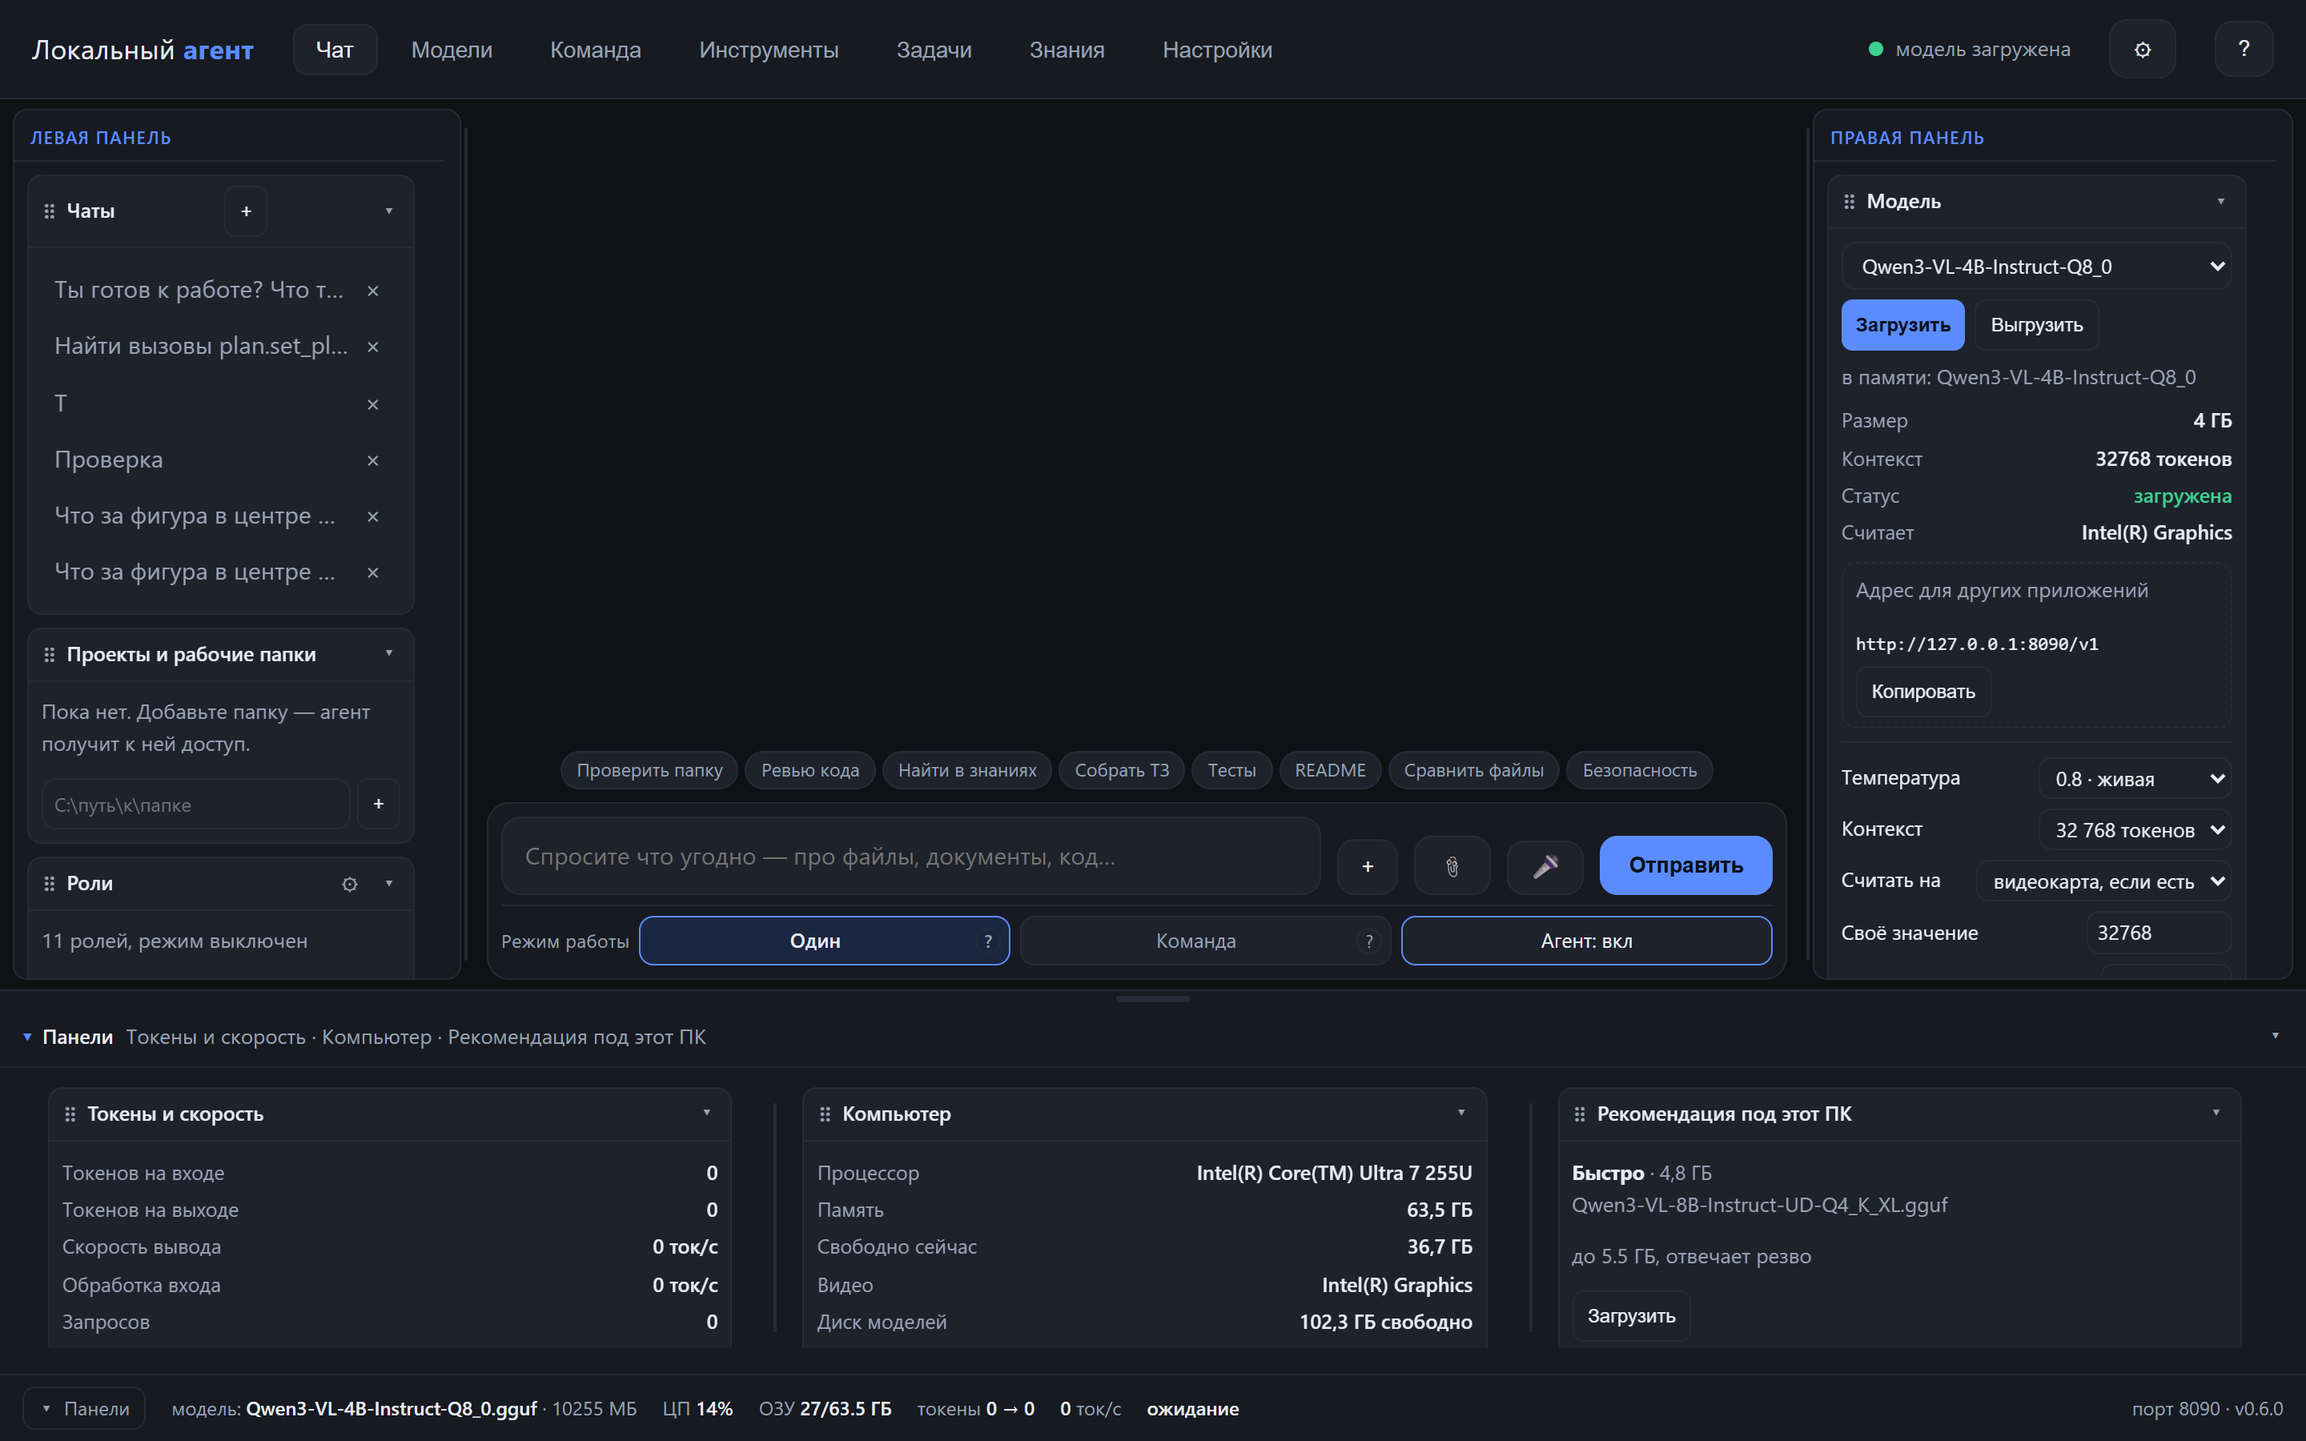
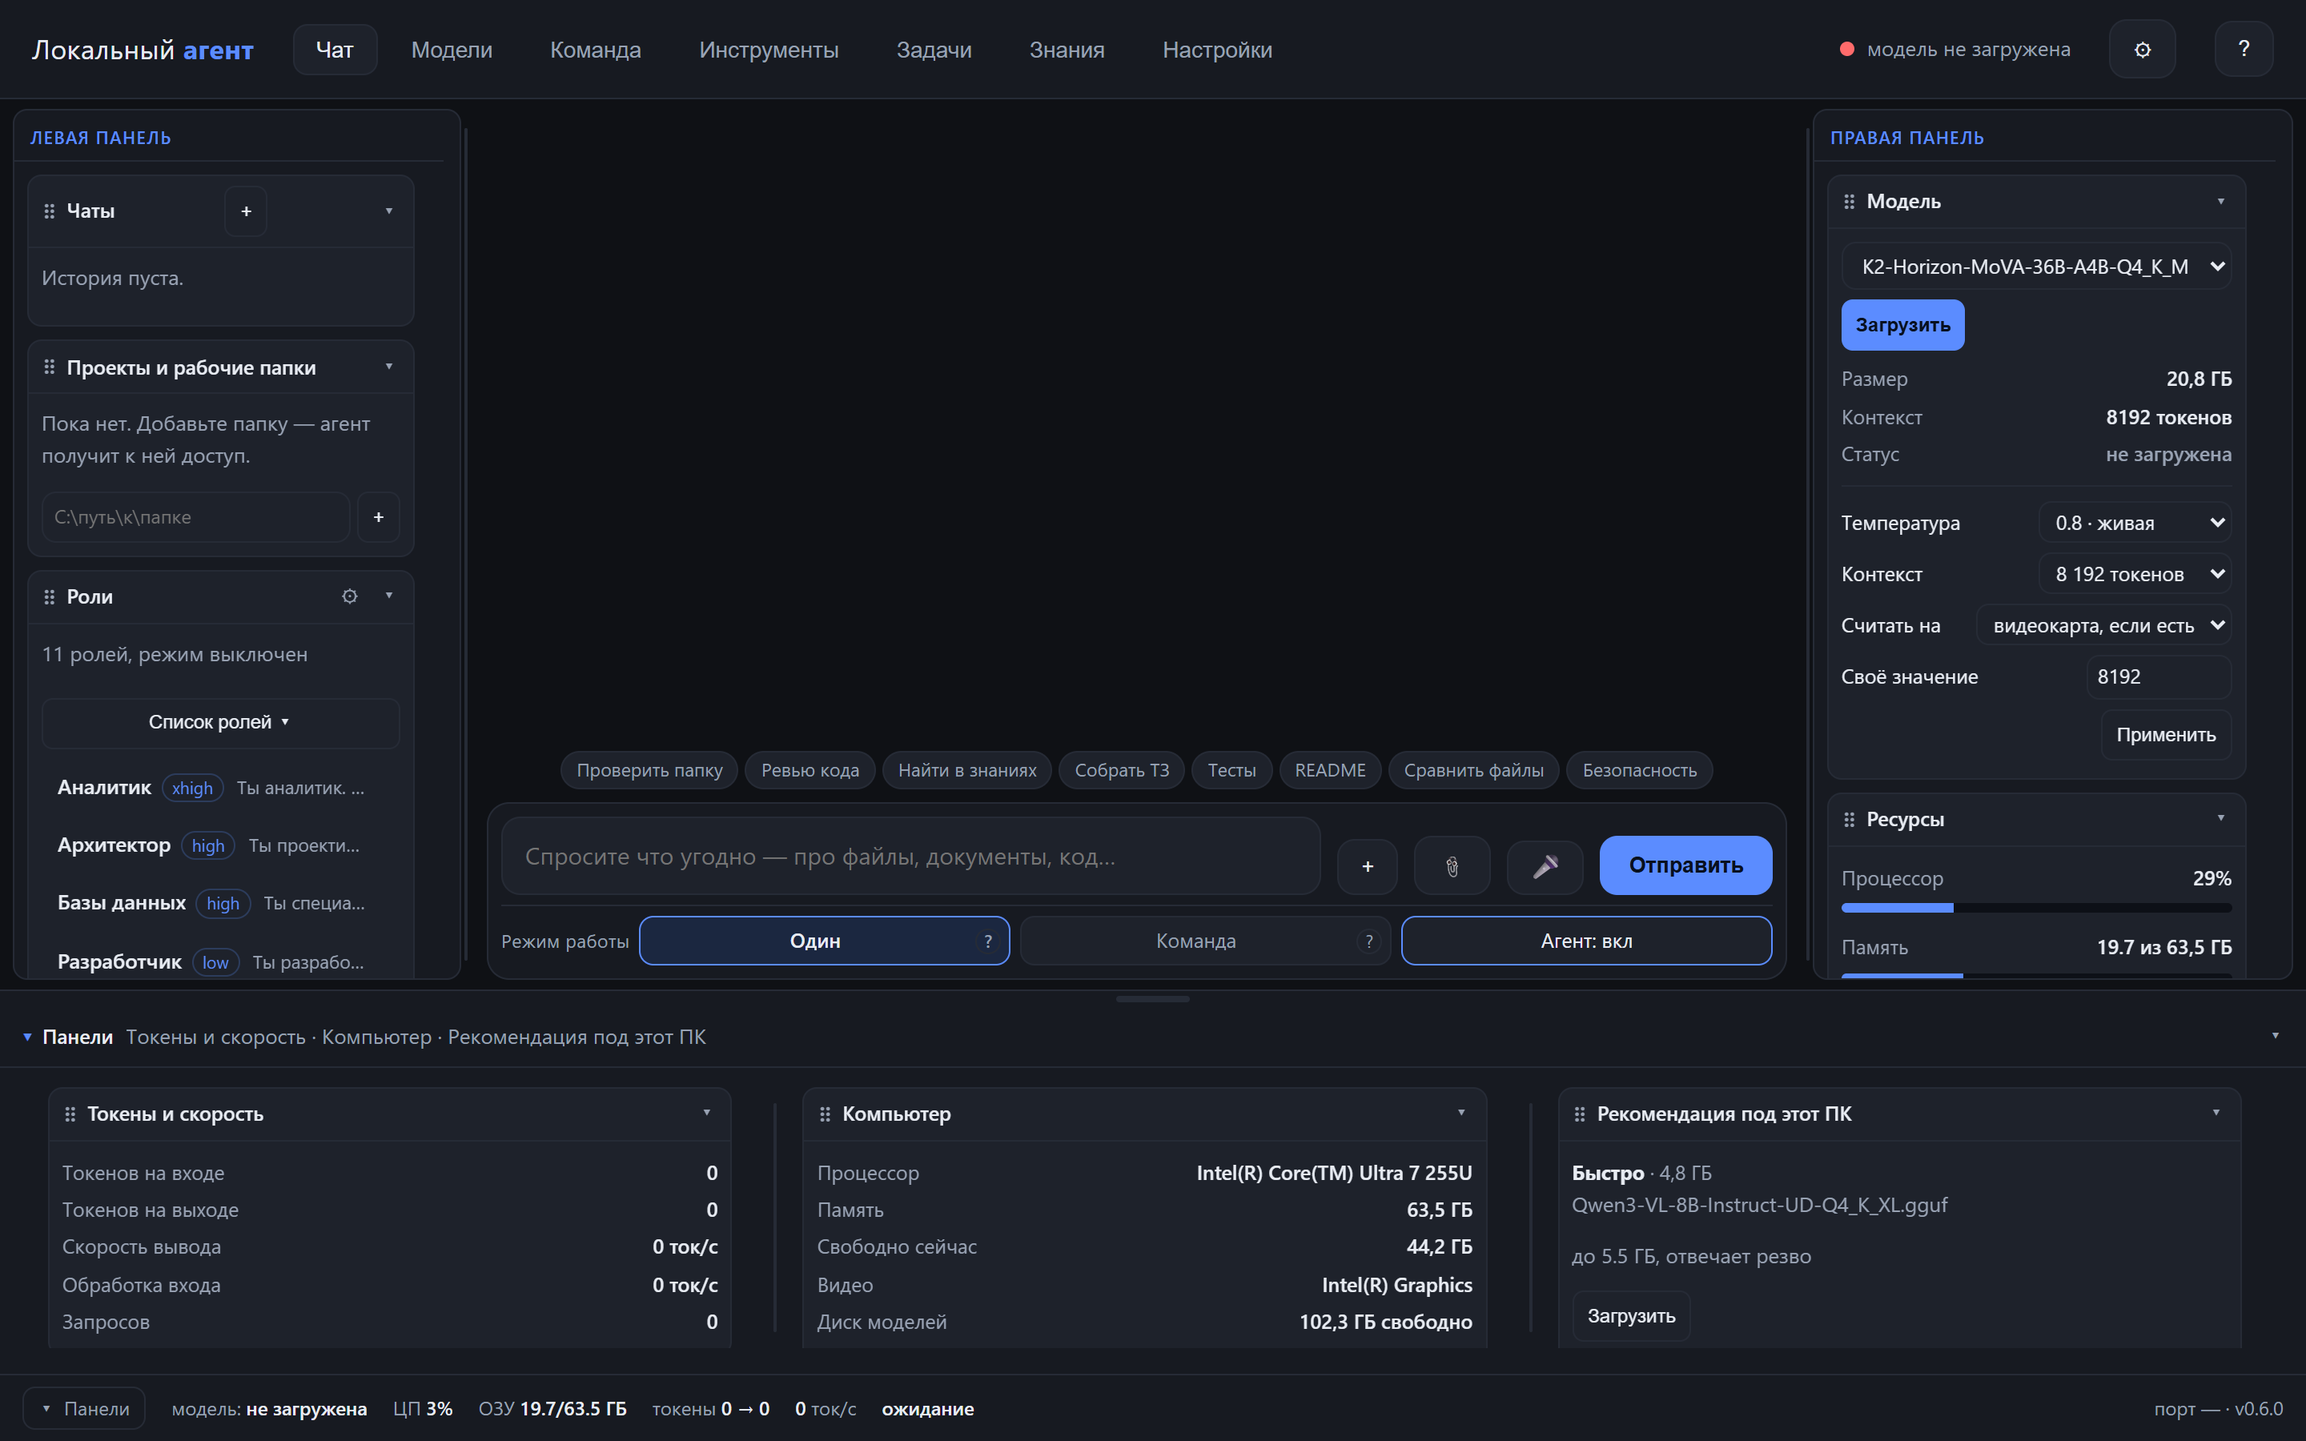
Кнопка «Перегенерировать» под ответом

diff --git a/app/ui/app.js b/app/ui/app.js
@@ -619,14 +619,12 @@ function wireAttach() {
   dropHintOpen(false);
 }
 
+let LAST_ASK = { content: '', images: [] };
+
 async function send() {
   const input = document.getElementById('input');
   const text = input.value.trim();
   if (!text || BUSY) return;
-  BUSY = true;
-  document.getElementById('send').disabled = true;
-  const stopBtn = document.getElementById('stopBtn');
-  if (stopBtn) stopBtn.style.display = '';
   input.value = '';
   let fullText = text;
   let images = [];
@@ -639,7 +637,17 @@ async function send() {
     ATTACH.length = 0;
     renderAttach();
   }
-  addMsg('user', text);
+  await runTurn(fullText, text, images);
+}
+
+async function runTurn(fullText, displayText, images) {
+  if (BUSY) return;
+  BUSY = true;
+  LAST_ASK = { content: fullText, images: images || [] };
+  document.getElementById('send').disabled = true;
+  const stopBtn = document.getElementById('stopBtn');
+  if (stopBtn) stopBtn.style.display = '';
+  addMsg('user', displayText);
   HISTORY.push({ role: 'user', content: fullText });
   let bubble = addMsg('bot', '');
   bubble.innerHTML = '<span class="typing">думаю…</span>';
@@ -722,6 +730,7 @@ async function send() {
       saveChat();
       speakAnswer();
       loadPlan();
+      attachRegen(bubble);
     } else if (event.type === 'error') {
       answer += '\n\nОшибка: ' + event.text;
       paint();
@@ -760,6 +769,49 @@ async function send() {
   const stopReset = document.getElementById('stopBtn');
   if (stopReset) stopReset.style.display = 'none';
   paint();
+  if (!document.querySelector('.regenBar')) attachRegen(bubble);
+}
+
+function attachRegen(bubble) {
+  Array.prototype.forEach.call(document.querySelectorAll('.regenBar'), function (bar) { bar.remove(); });
+  if (!bubble) return;
+  const bar = document.createElement('div');
+  bar.className = 'regenBar';
+  const button = document.createElement('button');
+  button.className = 'regen';
+  button.type = 'button';
+  button.textContent = '↻ Перегенерировать';
+  button.title = 'Задать тот же вопрос заново — ответ будет другим';
+  button.addEventListener('click', regenerate);
+  bar.appendChild(button);
+  bubble.insertAdjacentElement('afterend', bar);
+}
+
+function redrawHistory() {
+  const box = document.getElementById('messages');
+  if (!box) return;
+  box.innerHTML = '';
+  let lastBot = null;
+  HISTORY.forEach(function (message) {
+    if (!message.content) return;
+    const node = addMsg(message.role === 'user' ? 'user' : 'bot', message.content);
+    if (message.role !== 'user') lastBot = node;
+  });
+  return lastBot;
+}
+
+async function regenerate() {
+  if (BUSY) { toast('Дождитесь ответа или остановите его'); return; }
+  let index = -1;
+  for (let i = HISTORY.length - 1; i >= 0; i -= 1) {
+    if (HISTORY[i].role === 'user') { index = i; break; }
+  }
+  if (index < 0) { toast('Нет вопроса, который можно повторить'); return; }
+  const question = HISTORY[index];
+  const images = (LAST_ASK.content === question.content) ? (LAST_ASK.images || []) : [];
+  HISTORY = HISTORY.slice(0, index);
+  redrawHistory();
+  await runTurn(question.content, question.content, images);
 }
 
 async function startModel(path) {
@@ -1982,10 +2034,13 @@ async function openChat(id) {
   HISTORY = (data.messages || []).filter(function (m) { return m.role === 'user' || m.role === 'assistant'; });
   const box = document.getElementById('messages');
   box.innerHTML = '';
+  let lastBot = null;
   HISTORY.forEach(function (message) {
     if (!message.content) return;
-    addMsg(message.role === 'user' ? 'user' : 'bot', message.content);
+    const node = addMsg(message.role === 'user' ? 'user' : 'bot', message.content);
+    if (message.role !== 'user') lastBot = node;
   });
+  attachRegen(lastBot);
   renderChats();
   loadPlan();
 }

diff --git a/app/ui/style.css b/app/ui/style.css
@@ -852,3 +852,9 @@ body.hugeFont { --fs: 19px; }
 .modes .agentMode:not(.off) { border-color: var(--accent); color: var(--text); }
 .modelAddr[hidden] { display: none; }
 #modelTuning input[type="number"], #modelTuning input[type="text"] { background: var(--panel2); color: var(--text); border: 1px solid var(--line); border-radius: 8px; padding: 3px 6px; font: inherit; }
+
+/* повтор ответа под последним сообщением */
+.regenBar { display: flex; justify-content: flex-start; margin: -4px 0 10px 2px; }
+.regen { font: inherit; font-size: 11.5px; padding: 3px 9px; border-radius: 8px; background: var(--panel2); border: 1px solid var(--line); color: var(--muted); cursor: pointer; }
+.regen:hover { color: var(--text); border-color: var(--accent); }
+.regen:disabled { opacity: .6; cursor: default; }

diff --git a/tests/check_layout.py b/tests/check_layout.py
@@ -71,6 +71,10 @@ check("выбор модели в правой панели", 'id="modelPick"' i
 check("параметры модели рядом", 'id="modelTuning"' in model_block)
 check("отдельного блока настроек нет", 'data-block="tuning"' not in html)
 check("адрес сервера и копирование", 'id="modelAddr"' in model_block and 'id="modelAddrCopy"' in model_block)
+check("кнопка перегенерации", "function regenerate()" in app and "function attachRegen(" in app)
+check("перегенерация не плодит сообщения", "HISTORY = HISTORY.slice(0, index)" in app and "function redrawHistory()" in app)
+check("стиль кнопки", ".regenBar" in css and ".regen {" in css)
+check("кнопка после открытия чата", "attachRegen(lastBot)" in app)
 check("шаблоны компактные", "min-height: 24px" in css and ".templates { display: flex; gap: 4px" in css)
 check("селект модели сжимается", "flex: 1 1 220px" in css)
 check("шторка сворачивается в полосу", 'id="drawerHead"' in html and 'id="drawerSummary"' in html)

diff --git a/MEMORY.md b/MEMORY.md
@@ -203,6 +203,10 @@
 - **Flash Attention на Vulkan/Intel не поддержан** — llama.cpp сам пишет `layer 0 is assigned to device Vulkan0 but Flash Attention over K/V rows is assigned to device CPU` и отключает FA. Это нормально, не ошибка.
 
 ---
+- **Повтор ответа — `regenerate()` + `runTurn()`.** `send()` только собирает текст и вложения, весь поток крутит `runTurn(fullText, displayText, images)`. Повтор находит последний вопрос, обрезает `HISTORY` до него, перерисовывает ленту (`redrawHistory`) и запускает `runTurn` заново — поэтому сообщения не дублируются и история остаётся `[user, assistant]`.
+- **Кнопка «↻ Перегенерировать» — одна на чат.** `attachRegen(bubble)` сносит прежние `.regenBar` и вешает полосу под последним ответом; вызывается и на `done`, и при открытии чата (`openChat`), иначе после перезагрузки кнопки не было бы. Картинки повторяются только если вопрос совпал с `LAST_ASK`.
+
+---
 
 ## L4. Журнал
 
@@ -319,6 +323,11 @@
 - Исправлены P2: палки в кириллице (16), автоподбор папок моделей, шум в логе `vec_kind`, мёртвый код и мусор в `app/`.
 - Компоновка: шапка 62 px, ширина вкладок 1440 (чат 1100), шторка 240 px с ручкой, кнопки не меньше 32 px, удалены `.chatBar`, `.shell/.side`, `toggleSide`.
 - Проверено: 6 смоук-тестов, `check_contrast`, перезагрузка с сохранёнными темой/скином/шрифтом, кнопки задач и Telegram, bind 0.0.0.0 при `lan_access`.
+
+**2026-11-22 — кнопка «Перегенерировать» в чате**
+- `send()` разделён: сбор вложений остался в нём, поток вынесен в `runTurn`. Появились `regenerate`, `redrawHistory`, `attachRegen`; повтор не дублирует сообщения (`HISTORY = HISTORY.slice(0, index)`).
+- Кнопка одна: старая полоса удаляется, новая встаёт под последним ответом; после открытия сохранённого чата тоже появляется.
+- Проверено в браузере: ответ → кнопка → повтор даёт 2 сообщения, `HISTORY` = `[user, assistant]`, одна `.regenBar`; `check_layout` дополнен 4 проверками.
 
 **2026-11-22 — видеокарта по умолчанию, причина «кнопка Vulkan не фиксируется»**
 - Причина: установленная сборка b12633 не содержит `ggml-vulkan.dll`, поэтому движок шёл на процессоре при любом выборе. Добавлены `has_vulkan`, `devices`, `offload_info`; `find_exe` пропускает сборки без Vulkan, `install` откатывается на рабочую и запоминает пропуск в `engine_skip`.

diff --git a/README.md b/README.md
@@ -110,6 +110,10 @@ API: `GET /api/skills`, `POST /api/skills/seed`, `POST /api/skills/save`, `POST 
 - **Кнопка «Агент»** в строке режимов: включена — модель пользуется инструментами, файлами и ведёт план; выключена — обычный чат без доступа к диску и командам. Состояние сохраняется.
 - **Всё управление моделью — в правой панели**: выбор, «Загрузить/Выгрузить», размеры и параметры, а после загрузки — адрес `http://127.0.0.1:<порт>/v1` с кнопкой «Копировать» для подключения других приложений.
 
+## Повторить ответ
+
+Под последним ответом есть кнопка **«↻ Перегенерировать»**: она задаёт тот же вопрос заново. Прежний ответ убирается, новый встаёт на его место — история не разрастается, вложения повторяются, если вопрос тот же. Кнопка появляется и при открытии сохранённого чата.
+
 ## Режим работы и примеры задач
 
 Строка **«Режим работы»** стоит под полем ввода, в той же карточке (сначала поле с кнопками, ниже — режимы): **Один** — отвечает одна модель, **Команда** — задачу разбирают несколько ролей, **Агент** — включает инструменты (файлы, поиск, проверки, план). Кнопки одинаковой ширины, состояние «Агент» подсвечено, когда он включён.
